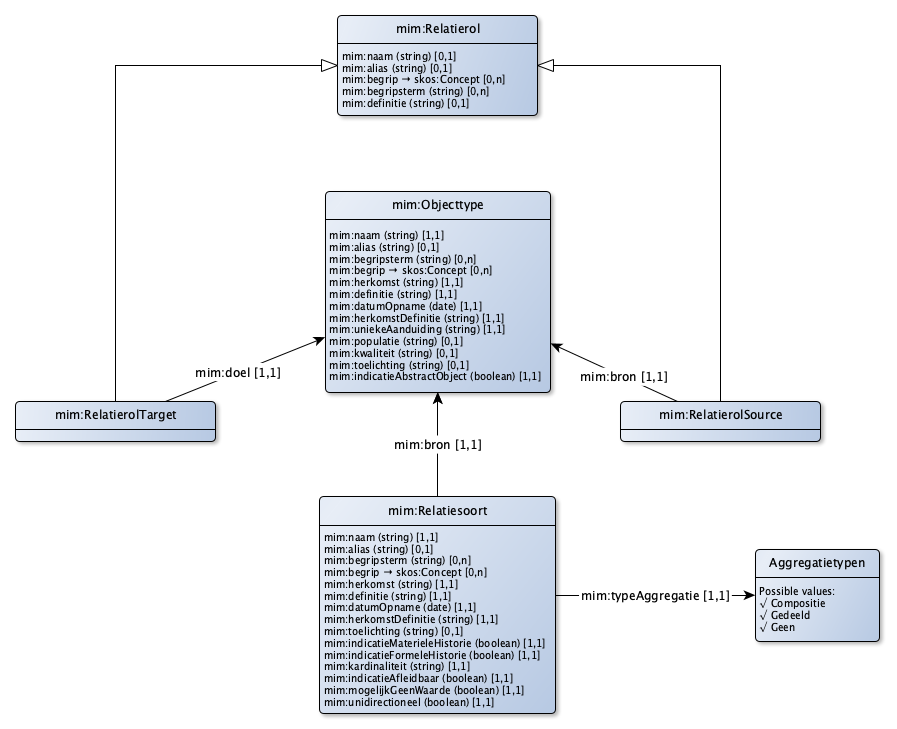
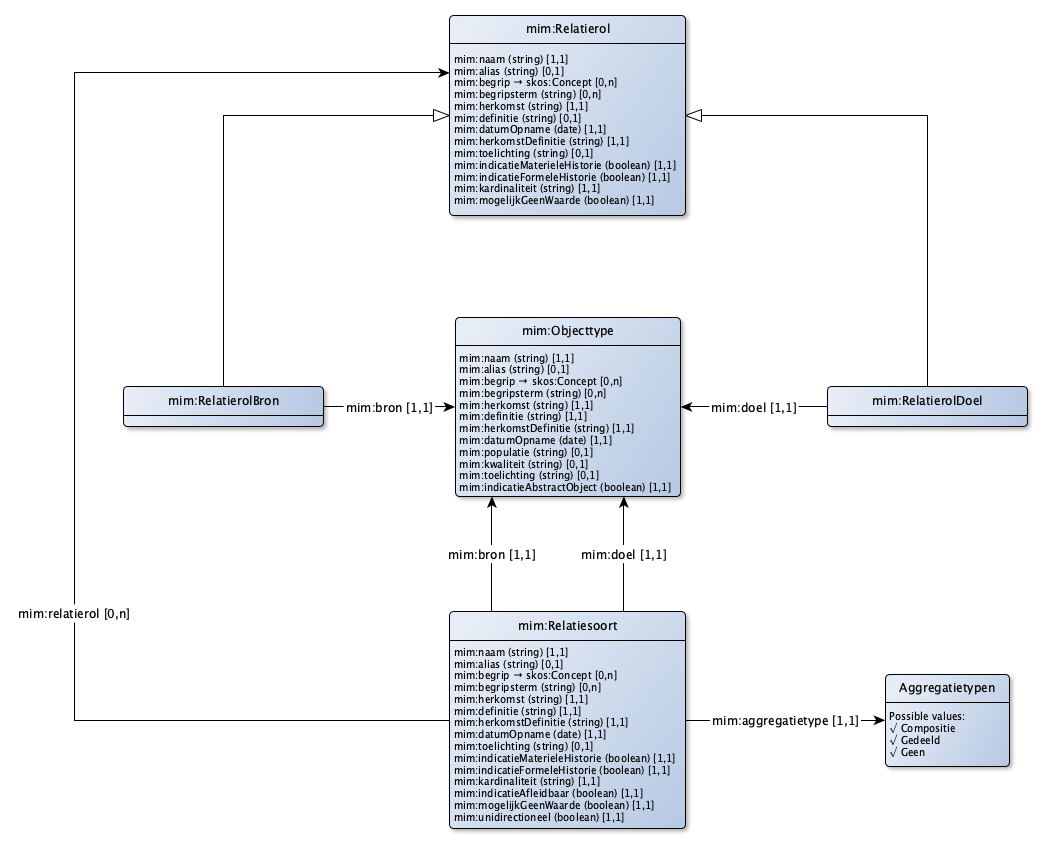
Relaties gesynchroniseerd

diff --git a/MetamodelLD.md b/MetamodelLD.md
@@ -328,6 +328,9 @@ Metadata aspecten worden hierbij altijd vastgelegd. Het gebruik van relatierol
 is optioneel (zowel bij bron en doel). Áls er een relatierol doel wordt
 vastgelegd, dan is de metadata hierbij wel verplicht.
 
+Merk op dat bij het modelleren op deze wijze, alleen de kardinaliteit voor het doel
+aangegeven kan worden. De kardinaliteit aan de bron kant wordt open gelaten.
+
 **Specificatie voor «Relatiesoort»**
 
 De relatiesoorten worden naar de volgende aspecten gespecificeerd.
@@ -358,9 +361,9 @@ Het veld `mim:aggregatietype` verwijst naar één van de volgende mogelijke waar
 
 | **Aggregatietype** | **Definitie** |
 |--------------------|---------------|
-| [`mim:None`](http://bp4mc2.org/def/mim#None) | Er is geen sprake van een aggregate |
-| [`mim:Composite`](http://bp4mc2.org/def/mim#Composite) | Compositie (gesloten wiebertje) |
-| [`mim:Aggregate`](http://bp4mc2.org/def/mim#Aggregate) | Aggregatie (open wiebertje) |
+| [`mim:Geen`](http://bp4mc2.org/def/mim#Geen) | Er is geen sprake van een aggregatie |
+| [`mim:Compositie`](http://bp4mc2.org/def/mim#Compositie) | Compositie (gesloten wiebertje) |
+| [`mim:Gedeeld`](http://bp4mc2.org/def/mim#Gedeeld) | Gedeelde aggregatie (open wiebertje) |
 
 **Specificatie voor mim:Relatierol**
 
@@ -376,8 +379,8 @@ Voor relatierollen worden naar de volgende aspecten gespecificeerd.
 
 #### Relatierol is leidend (alternatief 2)
 
-Verplichte benoeming van de rol van het doel in een relatie met de bijbehoren
-de metagegevens en optioneel de benoeming van de naam van de relatie.
+Verplichte benoeming van de rol van het doel in een relatie met de bijbehorende
+metagegevens en optioneel de benoeming van de naam van de relatie.
 
 **Specificatie voor «Relatiesoort»**
 
@@ -402,7 +405,6 @@ aspecten gespecificeerd.
 | Alias                        | [`mim:alias`](http://bp4mc2.org/def/mim#alias) | 0..1 | tekst |
 | Begrip                       | [`mim:begrip`](http://bp4mc2.org/def/mim#begrip) | 0..* | [`skos:Concept`](http://www.w3.org/2004/02/skos/core#Concept) |
 | Begripsterm                  | [`mim:begripsterm`](http://bp4mc2.org/def/mim#begripsterm) | 0..* | tekst |
-mim#Objecttype) |
 | Kardinaliteit                | [`mim:kardinaliteit`](http://bp4mc2.org/def/mim#kardinaliteit) | 1 | tekst |
 | Herkomst                     | [`mim:herkomst`](http://bp4mc2.org/def/mim#herkomst) | 1 | tekst |
 | Definitie                    | [`mim:definitie`](http://bp4mc2.org/def/mim#definitie) | 1 | tekst |

diff --git a/MetamodelAlgemeen.md b/MetamodelAlgemeen.md
@@ -1519,7 +1519,7 @@ Tagged values zijn altijd van het datatype CharacterString. Aanvullend geldt:
 | Indicatie formele historie          | Ja, Nee                                                                    |
 | Indicatie classificerend            | Ja, Nee                                                                    |
 | Mogelijk geen waarde                | Ja, Nee                                                                    |
-| Type aggregratie                    | Compositie, Gedeeld, Geen                                                  |
+| [Aggregatietype](#metagegeven-aggregatietype) | Compositie, Gedeeld, Geen                                        |
 | [Authentiek](#authentieke-gegevens) | Authentiek, Basisgegeven, Wettelijk gegeven, Landelijk kerngegeven, Overig |
 
 NB: Geef bij overig in uw eigen informatiemodel aan wat u er onder verstaat.
